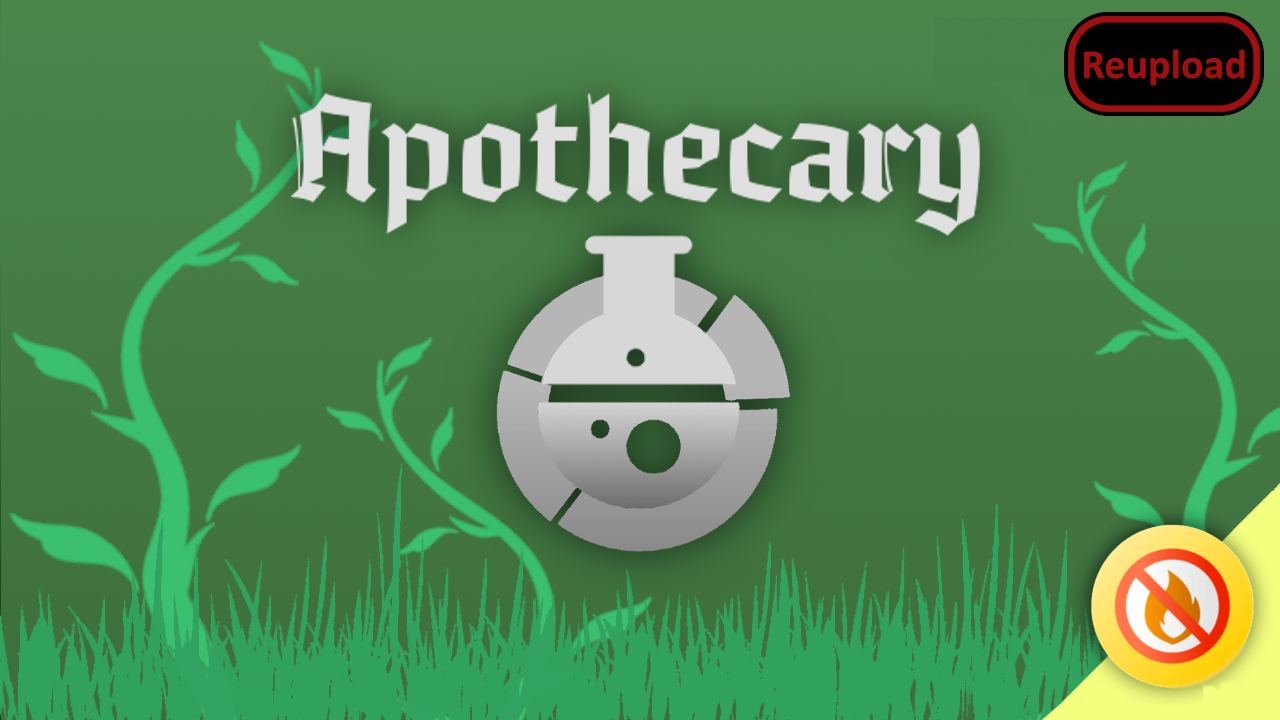
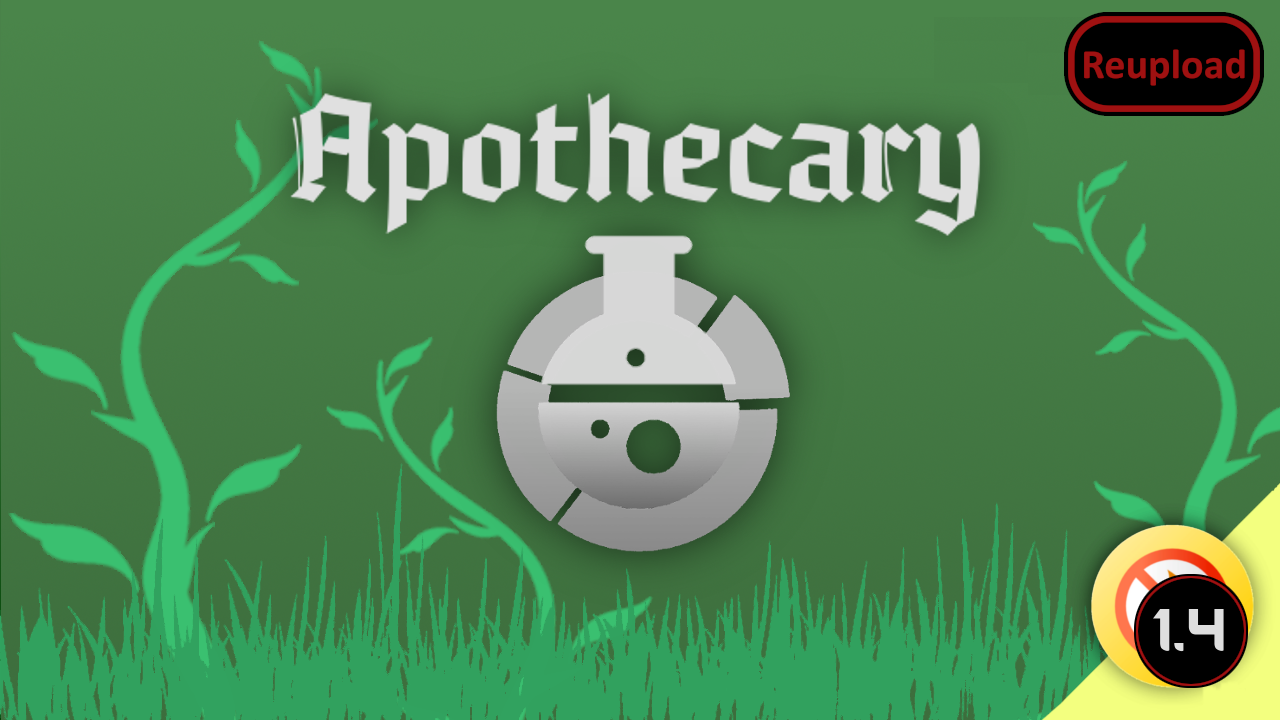
Added some of the drugs as socially consumable and also to fill drug desire

Changed region(s): [[0.875, 0.7944, 1.0, 0.9778]]

diff --git a/README.md b/README.md
@@ -125,12 +125,13 @@ Rimhammer
 
 -  See if the the error persists if you just have this mod and its requirements active.
 -  If not, try adding your other mods until it happens again.
--  Post your error-log using https://steamcommunity.com/workshop/filedetails/?id=818773962]HugsLib and command Ctrl+F12
+-  Post your error-log using https://steamcommunity.com/workshop/filedetails/?id=818773962]HugsLib or the standalone https://steamcommunity.com/sharedfiles/filedetails/?id=2873415404]Uploader and command Ctrl+F12
 -  For best support, please use the Discord-channel for error-reporting.
 -  Do not report errors by making a discussion-thread, I get no notification of that.
 -  If you have the solution for a problem, please post it to the GitHub repository.
+-  Use https://github.com/RimSort/RimSort/releases/latest]RimSort to sort your mods
 
 
 
+https://steamcommunity.com/sharedfiles/filedetails/changelog/2195469123]![Image](https://img.shields.io/github/v/release/emipa606/Apothecary?label=latest%20version&style=plastic&color=9f1111&labelColor=black)
 
-https://steamcommunity.com/sharedfiles/filedetails/changelog/2195469123]Last updated 2022-12-31
